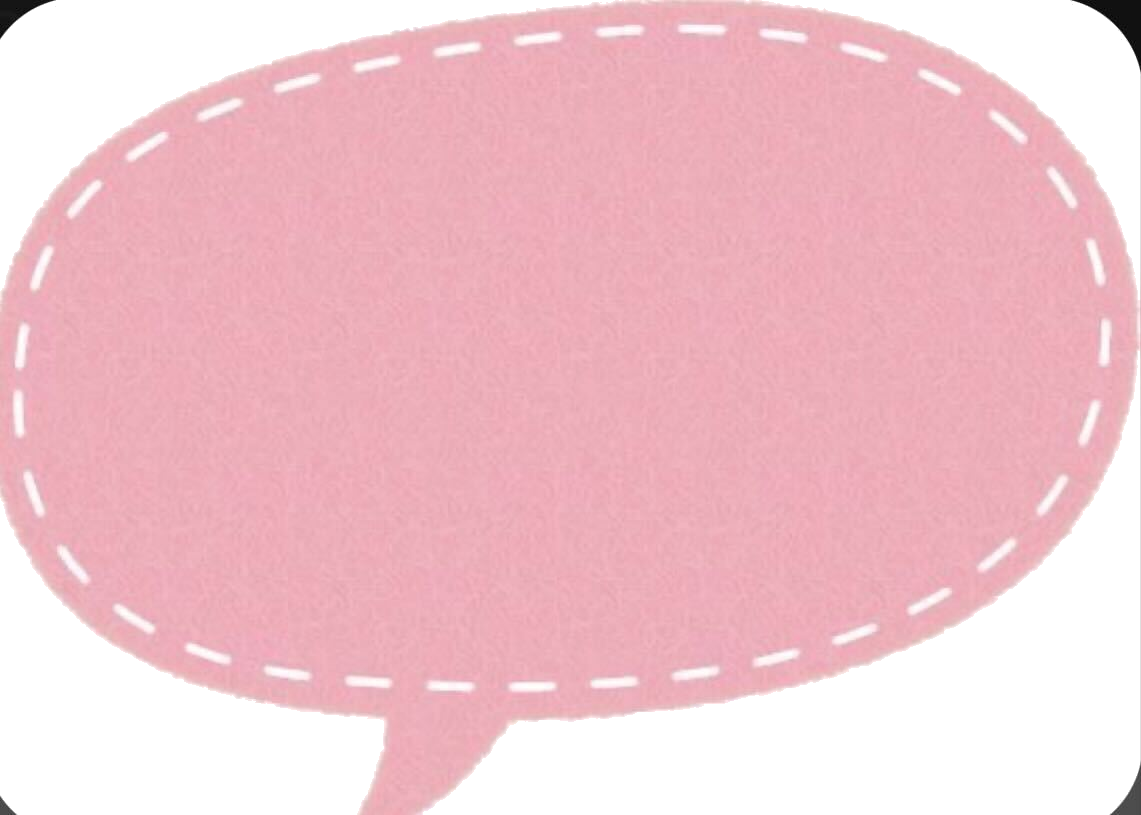
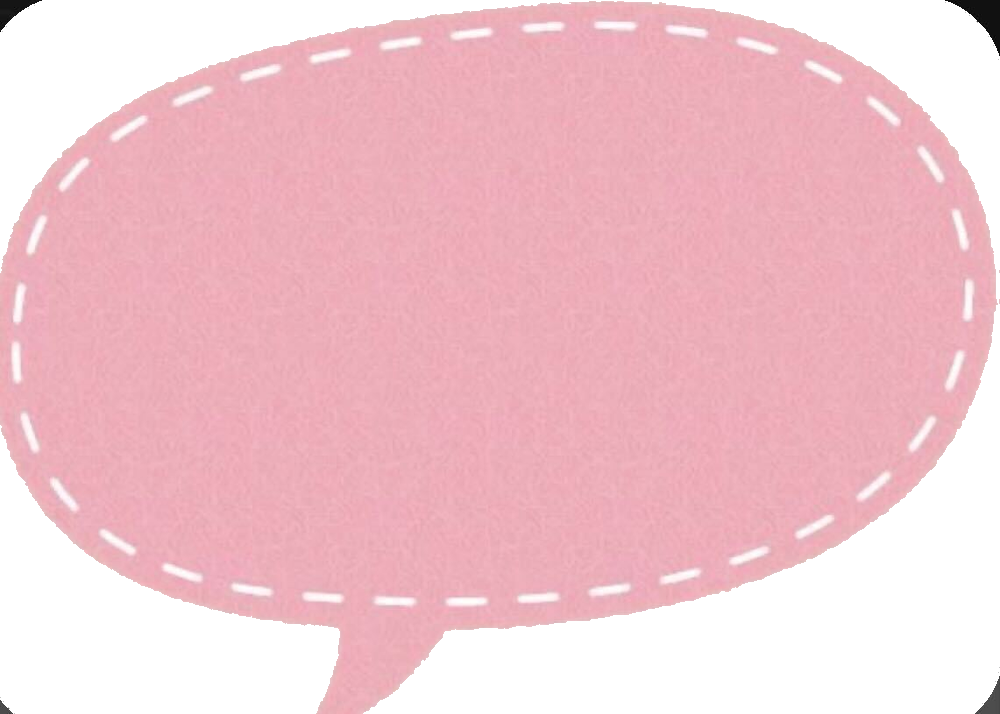
Clean bubble badge edges and move it to bottom-right corner

diff --git a/style.css b/style.css
@@ -349,10 +349,9 @@ a.item:focus-visible {
 /* little pink speech-bubble badge marking a poster that has a note */
 .note-badge {
   position: absolute;
-  top: 6px; right: 6px;
-  width: 34px; height: 26px;
+  bottom: 8px; right: 8px;
+  width: 42px; height: 30px;
   background: url("images/bubble.png") center / contain no-repeat;
-  filter: drop-shadow(0 1px 3px rgba(0,0,0,.35));
 }
 
 /* the comment bubble shown inline when you tap the poster */
